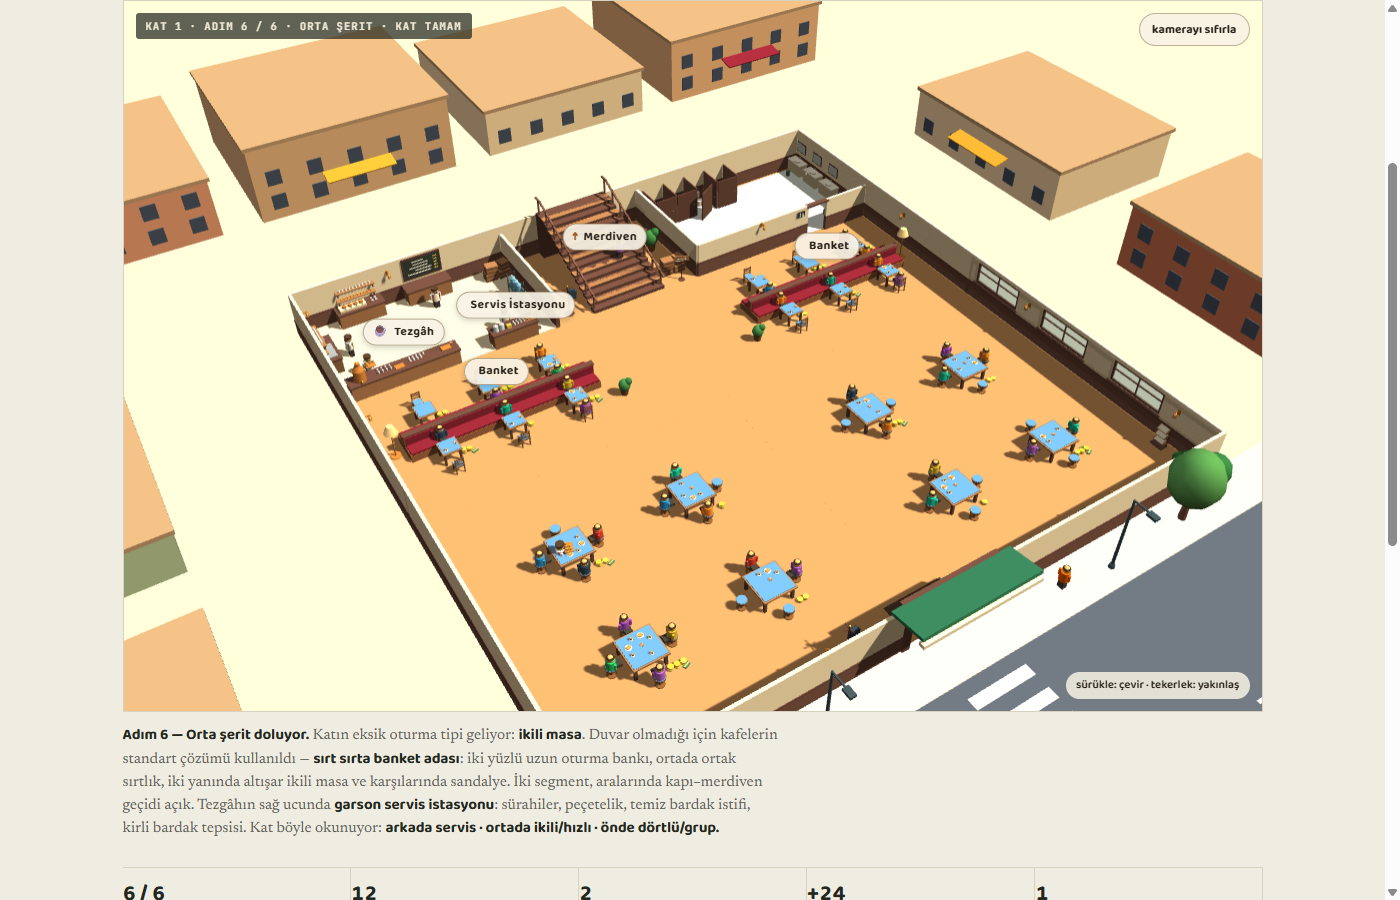
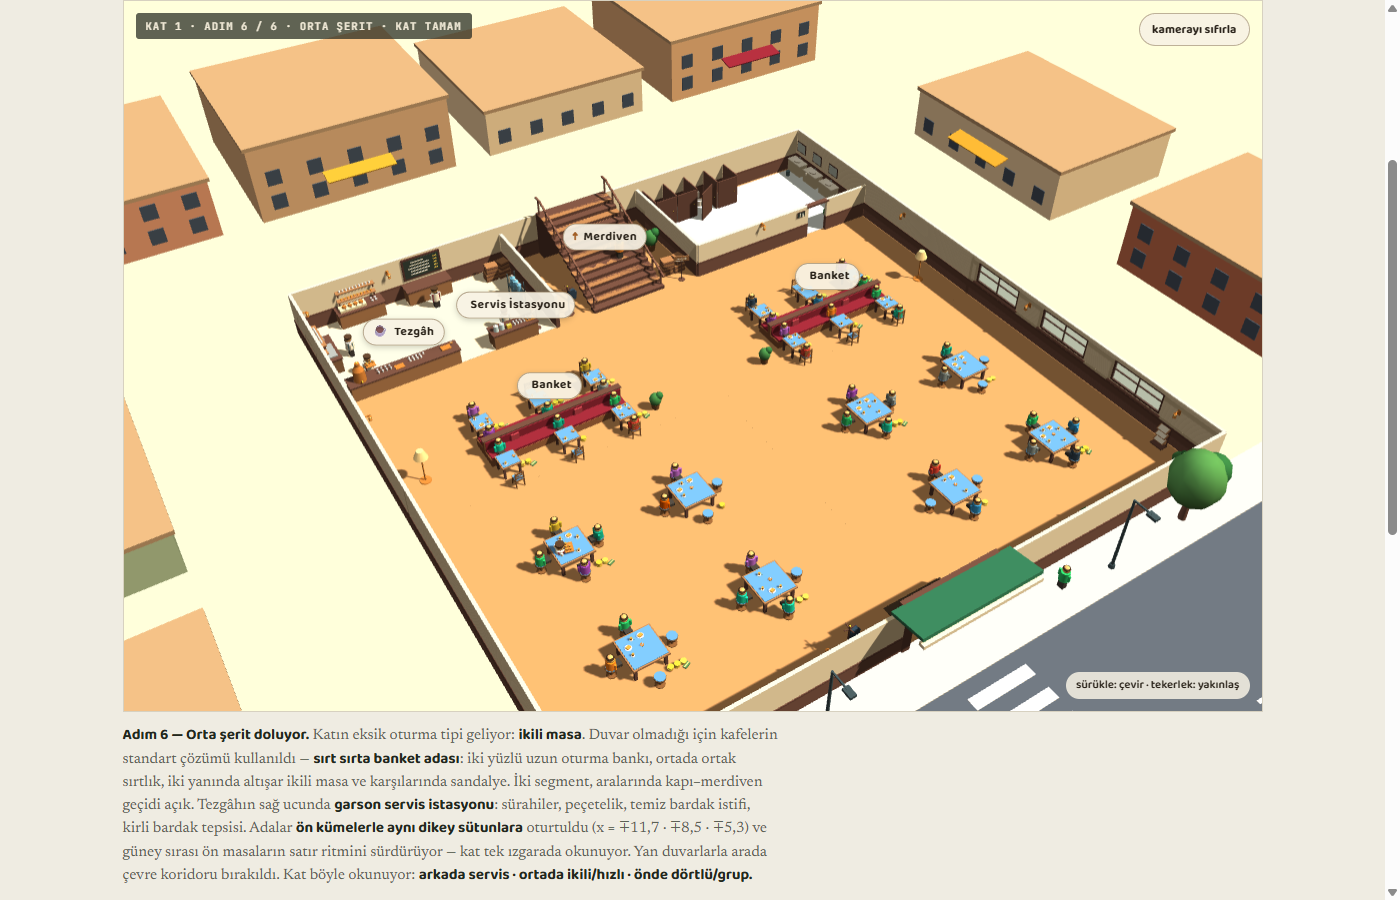
Maket v13: banket izgaraya oturdu, lavabo tadilat halinde basliyor
- Banket adalari ic taraftan hizalandi: merkezler x = -+8,5 (on kumelerle ayni),
  masalar on masalarla AYNI dikey sutunlarda (-+11,7 / -+8,5 / -+5,3), guney sirasi
  on satir ritminde (z = -1,1). Ada boyu 10,5 -> 7,6. Yan duvarlarla ~4,5 birimlik
  cevre koridoru kaldi.
- Banket dikey konumu -2,65'te sabitlendi: tezgahin onunde 4,1 birimlik servis
  koridoru, banketle on masalar arasinda 3,5 birimlik gecis.
- D-033: kilitli obje tadilat halinde durur. Lavabo kosesi adim 3'te tahta perde +
  uyari bandi + dubalar + iskele + moloz ile kapali; adim 4'te perde kalkiyor.
  Yeni yapi taslari: tadilatPerde, duba, iskele, moloz.
- decisions.md: D-033 (tadilat), D-034 (izgara), D-035 (tezgah), D-036 (orta serit).

Claude-Session: https://claude.ai/code/session_01XcKq8GTjdPZkrEsiCbXGAL

diff --git a/docs/maket/maket-v13.html b/docs/maket/maket-v13.html
@@ -959,7 +959,6 @@
   // ön duvarda tek kapı boşluğu; ara duvarlar 2.2 (kamera içeri görür). Zemin fayans.
   function lavaboBlock(x1, x2, zBack, zFront, doorX) {
     var g = new T.Group(), H = 2.2, i;
-    g.add(wall(x1, zBack, x1, zFront, H));
     g.add(wall(x1, zFront, doorX - 0.7, zFront, H));
     g.add(wall(doorX + 0.7, zFront, x2, zFront, H));
     put(g, box(1.6, 0.12, 0.3, C.doorWood), doorX, H - 0.06, zFront);
@@ -1163,6 +1162,58 @@
     [[-0.52, -0.24], [0.52, -0.24], [-0.52, 0.24], [0.52, 0.24]].forEach(function (p) {
       put(g, box(0.07, 0.42, 0.07, C.tableLeg), p[0], 0.21, p[1]);
     });
+    return g;
+  }
+
+  // trafik dubasi
+  function duba() {
+    var g = new T.Group();
+    put(g, box(0.44, 0.05, 0.44, 0xc0451a), 0, 0.025, 0);
+    put(g, cyl(0.05, 0.18, 0.64, 8, 0xe0611f, true), 0, 0.34, 0);
+    put(g, cyl(0.12, 0.14, 0.1, 8, 0xf1ece0), 0, 0.37, 0);
+    return g;
+  }
+
+  // TADILAT PERDESI — kilitli OBJENIN onunde tahta perde + uyari bandi.
+  // Kural: kilitli ALAN hic cizilmez; acik alanin icindeki kilitli obje tadilat halinde durur.
+  function tadilatPerde(x1, x2, z) {
+    var g = new T.Group(), len = x2 - x1, cx = (x1 + x2) / 2, i;
+    var n = Math.round(len / 0.62), st = len / n;
+    for (i = 0; i < n; i++) {
+      put(g, box(st - 0.05, 2.4, 0.1, [0x8a6242, 0x9c6f4a, 0x7d5b40][i % 3], true), x1 + st / 2 + i * st, 1.2, z);
+    }
+    put(g, box(len, 0.13, 0.18, C.doorWood), cx, 0.55, z + 0.02);
+    put(g, box(len, 0.13, 0.18, C.doorWood), cx, 2.05, z + 0.02);
+    for (i = 0; i * 0.86 < len - 0.5; i++) {
+      put(g, box(0.5, 0.17, 0.03, i % 2 ? 0xe0b13a : 0x2f2a24), x1 + 0.35 + i * 0.86, 1.35, z + 0.07).rotation.z = 0.5;
+    }
+    return g;
+  }
+
+  // iskele: dikmeler + kusaklar + kalas platform + capraz
+  function iskele(len) {
+    var g = new T.Group(), i;
+    [-len / 2 + 0.2, len / 2 - 0.2].forEach(function (x) {
+      [-0.5, 0.5].forEach(function (z) { put(g, cyl(0.06, 0.06, 3.0, 6, 0x8d9499), x, 1.5, z); });
+    });
+    [1.0, 2.4].forEach(function (y) {
+      put(g, box(len, 0.07, 0.07, 0x8d9499), 0, y, -0.5);
+      put(g, box(len, 0.07, 0.07, 0x8d9499), 0, y, 0.5);
+    });
+    for (i = 0; i < 3; i++) put(g, box(len - 0.4, 0.06, 0.3, C.tableWood, true), 0, 1.06, -0.32 + i * 0.32);
+    put(g, box(Math.hypot(len, 1.4), 0.06, 0.06, 0x8d9499), 0, 1.7, -0.5).rotation.z = Math.atan2(1.4, len);
+    return g;
+  }
+
+  // moloz: kum yigini + kirik fayans + istiflenmis kalaslar + kova
+  function moloz() {
+    var g = new T.Group(), i;
+    put(g, cyl(0.05, 0.85, 0.55, 9, 0xbfae90, true), 0, 0.27, 0);
+    for (i = 0; i < 7; i++) {
+      put(g, box(0.24, 0.06, 0.2, i % 2 ? 0xcfd8dc : 0xb0bec5), rnd(-0.9, 0.9), 0.03, rnd(0.5, 1.2)).rotation.y = rnd(0, 3);
+    }
+    for (i = 0; i < 4; i++) put(g, box(2.2, 0.07, 0.28, C.tableWood, true), 1.9, 0.04 + i * 0.075, -0.2 + (i % 2) * 0.05);
+    put(g, cyl(0.2, 0.16, 0.32, 8, 0x546e7a, true), -1.2, 0.16, 0.5);
     return g;
   }
 
@@ -1600,6 +1651,23 @@
       put(g, signPost(), -5.6, 0, -10.4, 0.5);
       put(g, sconce(), -16.85, 2.05, -15.6, Math.PI / 2);
       put(g, sconce(), -11.6, 2.05, -16.85, 0);
+      g.add(wall(4.6, -16.9, 4.6, -9.8, 2.2));                    // lavabo bloğunun batı duvarı
+    }
+
+    /* >>> TADİLAT — lavabo satın alınana kadar arka-sağ köşe tahta perdeyle kapalı.
+       Kural: kilitli ALAN hiç çizilmez; açık alanın içindeki kilitli OBJE tadilatta durur. <<< */
+    if (s === 3) {
+      g = ST(3);
+      g.add(tadilatPerde(4.6, 16.9, -9.8));
+      put(g, duba(), 5.6, 0, -8.9);
+      put(g, duba(), 9.4, 0, -8.7);
+      put(g, duba(), 13.8, 0, -8.9);
+      put(g, box(2.6, 0.1, 0.12, 0xe0b13a), 7.5, 0.72, -8.8);
+      put(g, box(2.6, 0.1, 0.12, 0xe0b13a), 11.6, 0.72, -8.8);
+      put(g, iskele(4.4), 12.0, 0, -12.4);
+      put(g, moloz(), 7.0, 0, -13.6);
+      put(g, crates(), 15.6, 0, -15.8);
+      put(g, signPost(), 15.4, 0, -8.8, -0.5);
     }
 
     // ADIM 4 — LAVABO: arka bandın sağ ucu; dört kabin, üç lavabo, kapısı salona bakar.
@@ -1709,19 +1777,21 @@
       g = ST(6);
       put(g, servisIstasyonu(), -7.1, 0, -10.25, 0);
       put(g, staff(C.apronDish, 0), -7.1, 0, -11.3, 0);
-      [[-10.25, [7, 12, 5, 9, 4, 11]], [10.25, [6, 10, 13, 5, 8, 3]]].forEach(function (seg) {
-        put(g, banketIsland(10.5), seg[0], 0, -5.0);
+      /* Hizalama: ada merkezleri ön kümelerin merkezinde (x = ∓8,5); masalar ön masalarla
+         AYNI dikey sütunlarda (∓11,7 · ∓8,5 · ∓5,3) ve güney sırası ön satır ritminde (z = −1,1). */
+      [[-8.5, [7, 12, 5, 9, 4, 11]], [8.5, [6, 10, 13, 5, 8, 3]]].forEach(function (seg) {
+        put(g, banketIsland(7.6), seg[0], 0, -2.65);
         var k = 0;
         [-1, 1].forEach(function (dir) {
-          [-3.5, 0, 3.5].forEach(function (dx) {
-            banketUnit(g, seg[0] + dx, -5.0, dir, seg[1][k++]);
+          [-3.2, 0, 3.2].forEach(function (dx) {
+            banketUnit(g, seg[0] + dx, -2.65, dir, seg[1][k++]);
           });
         });
       });
-      put(g, plant(false), -4.2, 0, -3.0);
-      put(g, plant(false), 4.2, 0, -3.0);
-      put(g, floorLamp(), -16.0, 0, -5.0);
-      put(g, floorLamp(), 16.0, 0, -5.0);
+      put(g, plant(false), -3.4, 0, -1.2);
+      put(g, plant(false), 3.4, 0, -1.2);
+      put(g, floorLamp(), -15.4, 0, -2.65);
+      put(g, floorLamp(), 15.4, 0, -2.65);
     }
 
     // aydınlatma: duvar aplikleri (y≈2.05) + köşelerde ayaklı lambalar
@@ -2080,13 +2150,13 @@
       { n: '3. Alan', badge: 'kat 1 · adım 3 / 6 · arka yarı + tezgâh',
         d: 60, a: -0.58, e: 0.72, t: [-4.0, 0.5, -4.0], rooms: [8, 1, 2],
         stats: [['3 / 6', 'adım'], ['34 × 34', 'kat'], ['9,0', 'tezgâh boyu'], ['8', 'masa'], ['3', 'personel']],
-        labels: [[-8.5, 8.6, '1', '1. Alan'], [8.5, 8.6, '2', '2. Alan'], [-13.0, -10.4, '☕', 'Tezgâh'], [4.0, -5.0, '3', 'boş şerit']],
-        cap: '<b>Adım 3 — Arka yarı açılıyor, servis bloğu ve tezgâh kuruluyor.</b> 34 × 17 birimlik alan tek hamlede geliyor. Arka duvarın sol ucunda 12,2 × 7,0 bir servis bloğu doğuyor ve <b>salona bakan yüzü tezgâh</b>: semaver, temiz bardak istifleri ve hazır tepsiler müşterinin gördüğü yerde; hazırlık arkada — arka duvarda cezve ocağı, hazırlık tezgâhı ve menü tahtası, sol duvarda bulaşık. Tezgâhın ortasında <b>2 birimlik geçit</b>, personel ve oyuncu oradan giriyor. <em>Kafe mantığı: tezgâh mekânın yüzüdür, mutfak arkasında kalır.</em>' },
+        labels: [[-8.5, 8.6, '1', '1. Alan'], [8.5, 8.6, '2', '2. Alan'], [-13.0, -10.4, '☕', 'Tezgâh'], [10.8, -9.2, '⚠', 'Tadilat'], [-2.0, -4.0, '3', 'boş şerit']],
+        cap: '<b>Adım 3 — Arka yarı açılıyor, servis bloğu ve tezgâh kuruluyor.</b> 34 × 17 birimlik alan tek hamlede geliyor. Arka duvarın sol ucunda 12,2 × 7,0 bir servis bloğu doğuyor ve <b>salona bakan yüzü tezgâh</b>: semaver, temiz bardak istifleri ve hazır tepsiler müşterinin gördüğü yerde; hazırlık arkada — arka duvarda cezve ocağı, hazırlık tezgâhı ve menü tahtası, sol duvarda bulaşık. Tezgâhın ortasında <b>2 birimlik geçit</b>, personel ve oyuncu oradan giriyor. <em>Kafe mantığı: tezgâh mekânın yüzüdür, mutfak arkasında kalır.</em> Arka-sağ köşe <b>tahta perdeyle kapalı</b>: içeride iskele, moloz, kalaslar — orası tadilatta, sonra satın alınıp lavabo olacak.' },
       { n: 'Lavabo', badge: 'kat 1 · adım 4 / 6 · lavabo',
         d: 46, a: -0.50, e: 0.62, t: [7.0, 0.8, -8.0], rooms: [8, 6],
         stats: [['4 / 6', 'adım'], ['12,3 × 7,0', 'oda'], ['4', 'kabin'], ['3', 'lavabo'], ['arka-sağ', 'blok']],
         labels: [[10.8, -13.0, '', 'Lavabo'], [-10.8, -13.0, '☕', 'Servis Köşesi'], [0, -5.0, '3', 'boş şerit']],
-        cap: '<b>Adım 4 — Lavabo.</b> Arka bandın <b>sağ ucu</b>: kapalı bir lavabo bloğu (12,3 × 7,0). Arka duvar boyunca <b>dört kabin</b> (biri aralık), sağ duvarda <b>üç lavabo</b> aynalarıyla, ortada dolaşım, ön duvarda tek kapı ve levha. Servis köşesiyle <b>tam simetrik</b>, aynı hizada bitiyor — aradaki boşluk merdivene ayrıldı.' },
+        cap: '<b>Adım 4 — Lavabo.</b> <b>Tahta perde kalkıyor, tadilat bitiyor.</b> Arka bandın <b>sağ ucu</b>: kapalı bir lavabo bloğu (12,3 × 7,0). Arka duvar boyunca <b>dört kabin</b> (biri aralık), sağ duvarda <b>üç lavabo</b> aynalarıyla, ortada dolaşım, ön duvarda tek kapı ve levha. Servis köşesiyle <b>tam simetrik</b>, aynı hizada bitiyor — aradaki boşluk merdivene ayrıldı.' },
       { n: 'Merdiven', badge: 'kat 1 · adım 5 / 6 · merdiven',
         d: 58, a: -0.55, e: 0.70, t: [0, 0.8, -6.0], rooms: [8, 6, 7],
         stats: [['5 / 6', 'adım'], ['9,2 × 7,0', 'kova'], ['14', 'basamak'], ['Kat 2', 'açılır'], ['34 × 9,8', 'boş şerit']],
@@ -2094,9 +2164,9 @@
         cap: '<b>Adım 5 — Merdiven.</b> İki bloğun <b>tam arasındaki</b> kova açılıyor: 14 basamak, iki yanda korkuluk, üstte sahanlık — <b>Kat 2 için tek çıkış</b>. Kovanın iki yanındaki ceplerde askılık, depo kasası ve saksı. Arka bant böylece tamamlanıyor: <b>servis köşesi · merdiven · lavabo, üçü de z = −9,8 hizasında bitiyor.</b> Önlerinde 34 × 9,8 birimlik kesintisiz şerit kalıyor — <em>geniş, tek sıra masalık; sıradaki adımda onu birlikte dolduracağız.</em>' },
       { n: 'Orta Şerit', badge: 'kat 1 · adım 6 / 6 · orta şerit · kat tamam',
         d: 62, a: -0.56, e: 0.70, t: [0, 0.7, -3.0], rooms: [8, 9, 1, 2],
-        stats: [['6 / 6', 'adım'], ['12', 'ikili masa'], ['2', 'banket adası'], ['+24', 'koltuk'], ['1', 'servis istasyonu']],
-        labels: [[-13.0, -10.4, '☕', 'Tezgâh'], [-7.1, -9.4, '', 'Servis İstasyonu'], [-10.25, -5.0, '', 'Banket'], [10.25, -5.0, '', 'Banket'], [0, -12.5, '↑', 'Merdiven']],
-        cap: '<b>Adım 6 — Orta şerit doluyor.</b> Katın eksik oturma tipi geliyor: <b>ikili masa</b>. Duvar olmadığı için kafelerin standart çözümü kullanıldı — <b>sırt sırta banket adası</b>: iki yüzlü uzun oturma bankı, ortada ortak sırtlık, iki yanında altışar ikili masa ve karşılarında sandalye. İki segment, aralarında kapı–merdiven geçidi açık. Tezgâhın sağ ucunda <b>garson servis istasyonu</b>: sürahiler, peçetelik, temiz bardak istifi, kirli bardak tepsisi. Kat böyle okunuyor: <b>arkada servis · ortada ikili/hızlı · önde dörtlü/grup.</b>' }
+        stats: [['6 / 6', 'adım'], ['12', 'ikili masa'], ['2', 'banket adası'], ['+24', 'koltuk'], ['ön masalarla', 'aynı sütun']],
+        labels: [[-13.0, -10.4, '☕', 'Tezgâh'], [-7.1, -9.4, '', 'Servis İstasyonu'], [-8.5, -2.65, '', 'Banket'], [8.5, -2.65, '', 'Banket'], [0, -12.5, '↑', 'Merdiven']],
+        cap: '<b>Adım 6 — Orta şerit doluyor.</b> Katın eksik oturma tipi geliyor: <b>ikili masa</b>. Duvar olmadığı için kafelerin standart çözümü kullanıldı — <b>sırt sırta banket adası</b>: iki yüzlü uzun oturma bankı, ortada ortak sırtlık, iki yanında altışar ikili masa ve karşılarında sandalye. İki segment, aralarında kapı–merdiven geçidi açık. Tezgâhın sağ ucunda <b>garson servis istasyonu</b>: sürahiler, peçetelik, temiz bardak istifi, kirli bardak tepsisi. Adalar <b>ön kümelerle aynı dikey sütunlara</b> oturtuldu (x = ∓11,7 · ∓8,5 · ∓5,3) ve güney sırası ön masaların satır ritmini sürdürüyor — kat tek ızgarada okunuyor. Yan duvarlarla arada çevre koridoru bırakıldı. Kat böyle okunuyor: <b>arkada servis · ortada ikili/hızlı · önde dörtlü/grup.</b>' }
     ],
     2: [
       { n: 'Okey Salonu', badge: 'kat 2 · adım 1 / 4 · Okey Salonu',

diff --git a/memory-bank/decisions.md b/memory-bank/decisions.md
@@ -540,3 +540,42 @@ kat programı kesinleşince topluca temizlenecek. Maket v2-v5 HTML dosyaları ar
 açık hava sinema, kış bahçesi/sera, canlı müzik köşesi). Seçim onay sonrası D-0xx olarak kaydedilecek.
 **Korunan:** okey/tavla KALIYOR — oyun masaları kumar değil, oyun kütüphanesi/board-game café dilinde
 kurulacak (bahis, kasa, jeton yok). Derecelendirme için okey/tavla ayağı ayrıca değerlendirilecek.
+
+## D-033 — Kilitli obje tadilat hâlinde durur (2026-09-05)
+**Karar:** Kilitli *alan* hiç çizilmez (zemin bile yok, sınırda net duvar). Ama açık alanın içindeki
+kilitli *obje* görünür ve **tadilat hâlinde** durur: tahta perde, sarı-siyah uyarı bandı, dubalar,
+arkasında iskele + moloz + kalaslar. Satın alınınca perde kalkar, bitmiş obje çıkar.
+**Gerekçe:** Kullanıcı: *"lavabo en başta harabe yıkık gibi dursun, sonradan parasını vererek açılsın."*
+Kilitli alanı göstermek "boş oda satın aldım" hissi verir; açık alandaki açıklanmamış boşluk ise mekânı
+sahte gösterir. Tadilat hâli hem sebebi anlatır hem satın alma isteğini doğurur.
+**İlk uygulama:** Kat 1 adım 3 — lavabo köşesi perdeli; adım 4'te perde kalkıyor.
+`tadilatPerde()`, `duba()`, `iskele()`, `moloz()` (docs/maket/maket-v13.html).
+**Açık uç:** aynı muamele merdiven kovasına da uygulansın mı — kullanıcıya soruldu.
+
+## D-034 — Kat 1 mobilya ızgarası (2026-09-05)
+**Karar:** Kat 1'in bütün oturma grupları tek ızgarada: sütunlar x = ∓5,3 · ∓8,5 · ∓11,7 (3,2 aralık),
+satırlar z = −1,1 · 5,3 · 11,7 (6,4 aralık); ortada x ∈ [−4,6, 4,6] kapı–merdiven geçidi.
+Yan duvarlarla mobilya arasında ~4,5 birimlik **çevre koridoru** bırakılır; duvara yalnız servis,
+tezgâh ve depo yapışır.
+**Gerekçe:** Kullanıcı banket adaları için: *"çok sağ ve sol duvarlara yakın duruyolar ... alttaki 4lü
+masa grubuna göre hizalamaları daha düzgün olsa."* Katı ızgara (v3) reddedilmişti, hizasız dağılım da
+dağınık; ortası bu.
+
+## D-035 — Servis bloğunun yüzü tezgâh (2026-09-05)
+**Karar:** Arka-sol servis bloğunun salona bakan yüzü **tezgâh**: semaver, temiz bardak istifleri ve
+hazır tepsiler müşterinin gördüğü yerde; cezve ocağı, hazırlık tezgâhı, menü tahtası ve bulaşık arkada.
+Tezgâhın ortasında 2 birimlik geçit — personel ve oyuncu tepsiyi oradan alır.
+**Gerekçe:** Kullanıcı *"bir kafe olsa bu katta ne olurdu"* diye sordu; planın en kafe-olmayan tarafı
+servis alanının dört duvarla salona kapatılmış olmasıydı. Gerçek kafede tezgâh mekânın yüzüdür.
+**Not:** Kullanıcı bunu *"her an geri aldırabilirim"* kaydıyla onayladı; kod yorum işaretleriyle
+sınırlandı (`>>> ÖN TEZGÂH ... <<<`).
+
+## D-036 — Orta şerit: banket adası + ikili masa (2026-09-05)
+**Karar:** Kat 1'in orta şeridine (34 × 9,8) sırt sırta iki yüzlü **banket adası** ve **ikili masalar**
+girer; tezgâhın ucunda **garson servis istasyonu** (sürahi, peçete, temiz bardak, kirli tepsi).
+İki segment, aralarında kapı–merdiven geçidi.
+**Gerekçe:** Katın gerçek eksiği masa sayısı değil, **masa çeşidi**ydi — 8 özdeş dörtlü masa vardı,
+hiçbir kafe böyle değil; en çok eksik olan ikili masa. Duvar olmadığı için kafelerin standart çözümü
+(banket adası) kullanıldı. Soba ve ocakbaşı tezgâhı önerileri kullanıcı tarafından reddedildi
+(*"hiç mantıklı gelmiyor"*).
+**Kat okuması:** arkada servis · ortada ikili/hızlı devir · önde dörtlü/grup.
